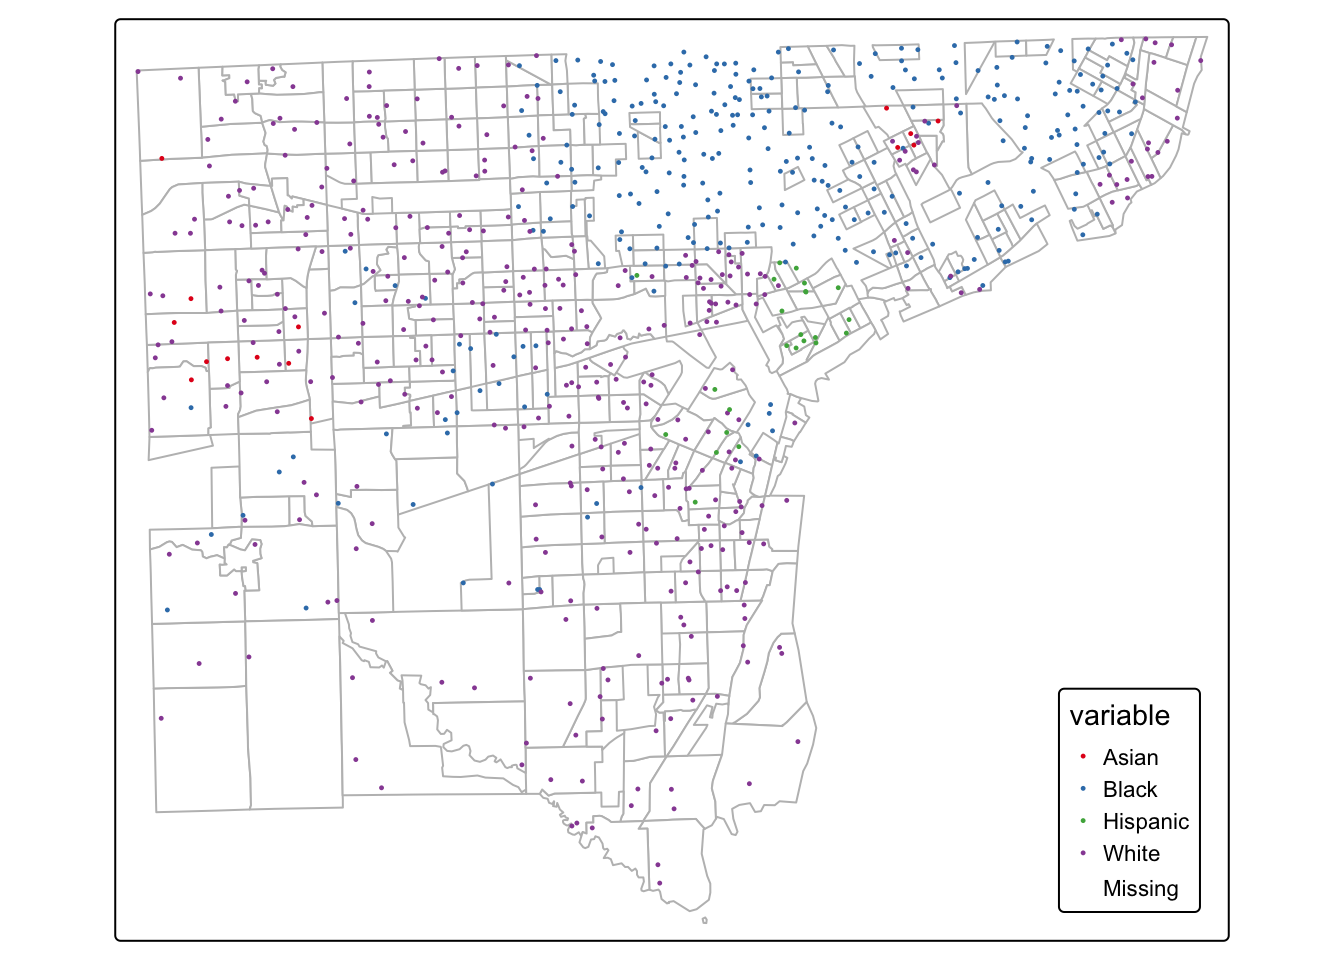
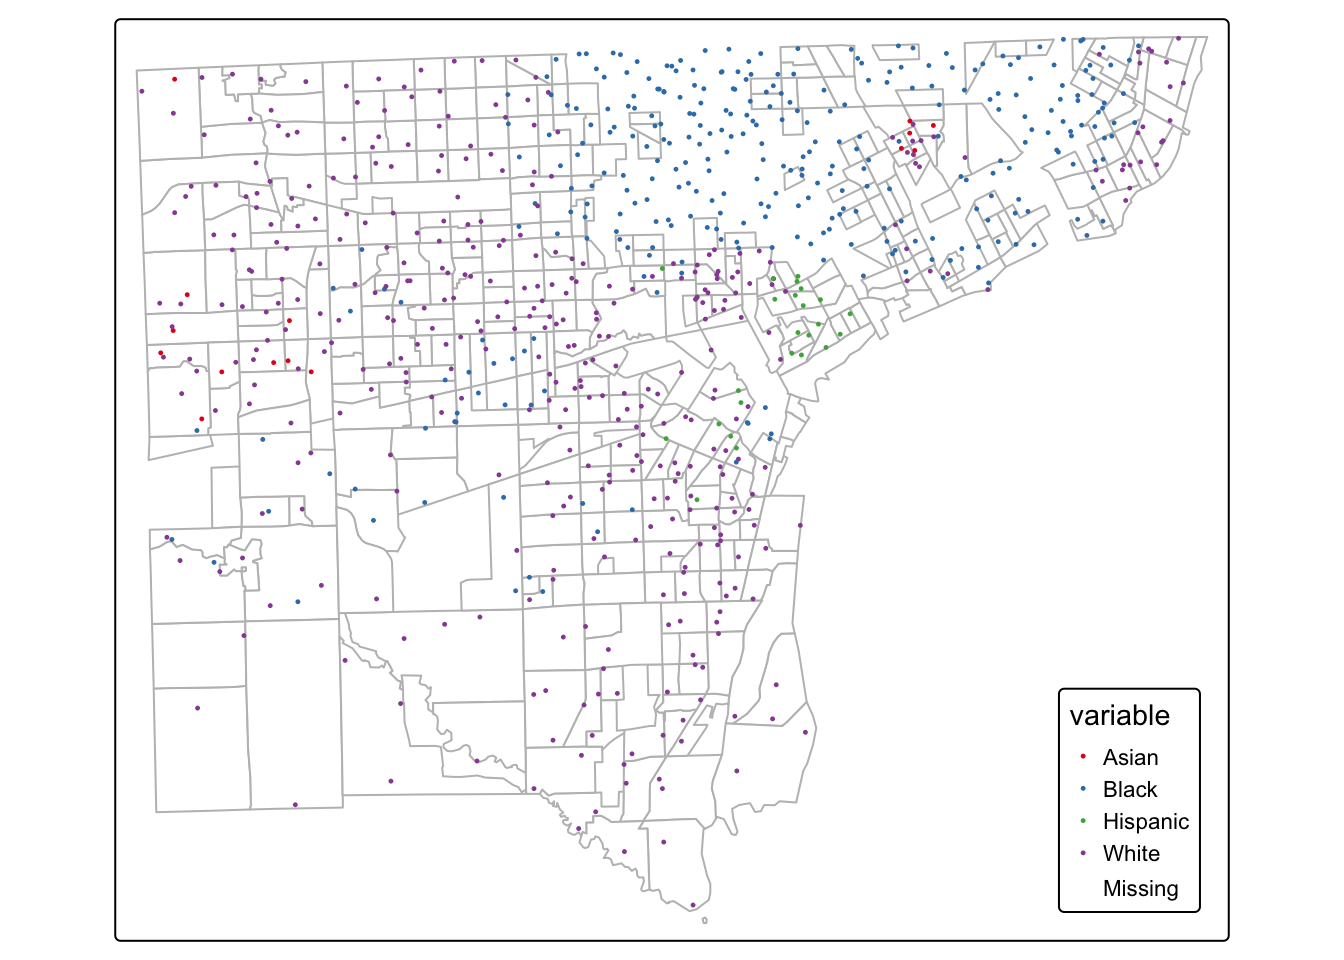
Trying to figure renders out

diff --git a/docs/portfolio.html b/docs/portfolio.html
@@ -231,7 +231,7 @@ ul.task-list li input[type="checkbox"] {
 <h3 class="anchored" data-anchor-id="dissimilarity-index">Dissimilarity Index:</h3>
 <div class="cell">
 <div class="cell-output-display">
-<div class="tabwid"><style>.cl-420c4d14{}.cl-4208ad62{font-family:'Helvetica';font-size:11pt;font-weight:normal;font-style:normal;text-decoration:none;color:rgba(0, 0, 0, 1.00);background-color:transparent;}.cl-420a30d8{margin:0;text-align:left;border-bottom: 0 solid rgba(0, 0, 0, 1.00);border-top: 0 solid rgba(0, 0, 0, 1.00);border-left: 0 solid rgba(0, 0, 0, 1.00);border-right: 0 solid rgba(0, 0, 0, 1.00);padding-bottom:5pt;padding-top:5pt;padding-left:5pt;padding-right:5pt;line-height: 1;background-color:transparent;}.cl-420a30e2{margin:0;text-align:right;border-bottom: 0 solid rgba(0, 0, 0, 1.00);border-top: 0 solid rgba(0, 0, 0, 1.00);border-left: 0 solid rgba(0, 0, 0, 1.00);border-right: 0 solid rgba(0, 0, 0, 1.00);padding-bottom:5pt;padding-top:5pt;padding-left:5pt;padding-right:5pt;line-height: 1;background-color:transparent;}.cl-420a40aa{width:0.75in;background-color:transparent;vertical-align: middle;border-bottom: 1.5pt solid rgba(102, 102, 102, 1.00);border-top: 1.5pt solid rgba(102, 102, 102, 1.00);border-left: 0 solid rgba(0, 0, 0, 1.00);border-right: 0 solid rgba(0, 0, 0, 1.00);margin-bottom:0;margin-top:0;margin-left:0;margin-right:0;}.cl-420a40ab{width:0.75in;background-color:transparent;vertical-align: middle;border-bottom: 1.5pt solid rgba(102, 102, 102, 1.00);border-top: 1.5pt solid rgba(102, 102, 102, 1.00);border-left: 0 solid rgba(0, 0, 0, 1.00);border-right: 0 solid rgba(0, 0, 0, 1.00);margin-bottom:0;margin-top:0;margin-left:0;margin-right:0;}.cl-420a40b4{width:0.75in;background-color:transparent;vertical-align: middle;border-bottom: 0 solid rgba(0, 0, 0, 1.00);border-top: 0 solid rgba(0, 0, 0, 1.00);border-left: 0 solid rgba(0, 0, 0, 1.00);border-right: 0 solid rgba(0, 0, 0, 1.00);margin-bottom:0;margin-top:0;margin-left:0;margin-right:0;}.cl-420a40b5{width:0.75in;background-color:transparent;vertical-align: middle;border-bottom: 0 solid rgba(0, 0, 0, 1.00);border-top: 0 solid rgba(0, 0, 0, 1.00);border-left: 0 solid rgba(0, 0, 0, 1.00);border-right: 0 solid rgba(0, 0, 0, 1.00);margin-bottom:0;margin-top:0;margin-left:0;margin-right:0;}.cl-420a40b6{width:0.75in;background-color:transparent;vertical-align: middle;border-bottom: 1.5pt solid rgba(102, 102, 102, 1.00);border-top: 0 solid rgba(0, 0, 0, 1.00);border-left: 0 solid rgba(0, 0, 0, 1.00);border-right: 0 solid rgba(0, 0, 0, 1.00);margin-bottom:0;margin-top:0;margin-left:0;margin-right:0;}.cl-420a40dc{width:0.75in;background-color:transparent;vertical-align: middle;border-bottom: 1.5pt solid rgba(102, 102, 102, 1.00);border-top: 0 solid rgba(0, 0, 0, 1.00);border-left: 0 solid rgba(0, 0, 0, 1.00);border-right: 0 solid rgba(0, 0, 0, 1.00);margin-bottom:0;margin-top:0;margin-left:0;margin-right:0;}</style><table data-quarto-disable-processing="true" class="cl-420c4d14"><thead><tr style="overflow-wrap:break-word;"><th class="cl-420a40aa"><p class="cl-420a30d8"><span class="cl-4208ad62">NAME</span></p></th><th class="cl-420a40ab"><p class="cl-420a30e2"><span class="cl-4208ad62">BWD</span></p></th><th class="cl-420a40ab"><p class="cl-420a30e2"><span class="cl-4208ad62">AWD</span></p></th><th class="cl-420a40ab"><p class="cl-420a30e2"><span class="cl-4208ad62">HWD</span></p></th></tr></thead><tbody><tr style="overflow-wrap:break-word;"><td class="cl-420a40b4"><p class="cl-420a30d8"><span class="cl-4208ad62">Ann Arbor</span></p></td><td class="cl-420a40b5"><p class="cl-420a30e2"><span class="cl-4208ad62">0.413</span></p></td><td class="cl-420a40b5"><p class="cl-420a30e2"><span class="cl-4208ad62">0.332</span></p></td><td class="cl-420a40b5"><p class="cl-420a30e2"><span class="cl-4208ad62">0.234</span></p></td></tr><tr style="overflow-wrap:break-word;"><td class="cl-420a40b4"><p class="cl-420a30d8"><span class="cl-4208ad62">Detroit</span></p></td><td class="cl-420a40b5"><p class="cl-420a30e2"><span class="cl-4208ad62">0.588</span></p></td><td class="cl-420a40b5"><p class="cl-420a30e2"><span class="cl-4208ad62">0.714</span></p></td><td class="cl-420a40b5"><p class="cl-420a30e2"><span class="cl-4208ad62">0.660</span></p></td></tr><tr style="overflow-wrap:break-word;"><td class="cl-420a40b4"><p class="cl-420a30d8"><span class="cl-4208ad62">Grand Rapids</span></p></td><td class="cl-420a40b5"><p class="cl-420a30e2"><span class="cl-4208ad62">0.479</span></p></td><td class="cl-420a40b5"><p class="cl-420a30e2"><span class="cl-4208ad62">0.393</span></p></td><td class="cl-420a40b5"><p class="cl-420a30e2"><span class="cl-4208ad62">0.532</span></p></td></tr><tr style="overflow-wrap:break-word;"><td class="cl-420a40b6"><p class="cl-420a30d8"><span class="cl-4208ad62">Lansing</span></p></td><td class="cl-420a40dc"><p class="cl-420a30e2"><span class="cl-4208ad62">0.375</span></p></td><td class="cl-420a40dc"><p class="cl-420a30e2"><span class="cl-4208ad62">0.496</span></p></td><td class="cl-420a40dc"><p class="cl-420a30e2"><span class="cl-4208ad62">0.304</span></p></td></tr></tbody></table></div>
+<div class="tabwid"><style>.cl-b6e586c6{}.cl-b6e1cf7c{font-family:'Helvetica';font-size:11pt;font-weight:normal;font-style:normal;text-decoration:none;color:rgba(0, 0, 0, 1.00);background-color:transparent;}.cl-b6e34604{margin:0;text-align:left;border-bottom: 0 solid rgba(0, 0, 0, 1.00);border-top: 0 solid rgba(0, 0, 0, 1.00);border-left: 0 solid rgba(0, 0, 0, 1.00);border-right: 0 solid rgba(0, 0, 0, 1.00);padding-bottom:5pt;padding-top:5pt;padding-left:5pt;padding-right:5pt;line-height: 1;background-color:transparent;}.cl-b6e3460e{margin:0;text-align:right;border-bottom: 0 solid rgba(0, 0, 0, 1.00);border-top: 0 solid rgba(0, 0, 0, 1.00);border-left: 0 solid rgba(0, 0, 0, 1.00);border-right: 0 solid rgba(0, 0, 0, 1.00);padding-bottom:5pt;padding-top:5pt;padding-left:5pt;padding-right:5pt;line-height: 1;background-color:transparent;}.cl-b6e3598c{width:0.75in;background-color:transparent;vertical-align: middle;border-bottom: 1.5pt solid rgba(102, 102, 102, 1.00);border-top: 1.5pt solid rgba(102, 102, 102, 1.00);border-left: 0 solid rgba(0, 0, 0, 1.00);border-right: 0 solid rgba(0, 0, 0, 1.00);margin-bottom:0;margin-top:0;margin-left:0;margin-right:0;}.cl-b6e3598d{width:0.75in;background-color:transparent;vertical-align: middle;border-bottom: 1.5pt solid rgba(102, 102, 102, 1.00);border-top: 1.5pt solid rgba(102, 102, 102, 1.00);border-left: 0 solid rgba(0, 0, 0, 1.00);border-right: 0 solid rgba(0, 0, 0, 1.00);margin-bottom:0;margin-top:0;margin-left:0;margin-right:0;}.cl-b6e3598e{width:0.75in;background-color:transparent;vertical-align: middle;border-bottom: 0 solid rgba(0, 0, 0, 1.00);border-top: 0 solid rgba(0, 0, 0, 1.00);border-left: 0 solid rgba(0, 0, 0, 1.00);border-right: 0 solid rgba(0, 0, 0, 1.00);margin-bottom:0;margin-top:0;margin-left:0;margin-right:0;}.cl-b6e35996{width:0.75in;background-color:transparent;vertical-align: middle;border-bottom: 0 solid rgba(0, 0, 0, 1.00);border-top: 0 solid rgba(0, 0, 0, 1.00);border-left: 0 solid rgba(0, 0, 0, 1.00);border-right: 0 solid rgba(0, 0, 0, 1.00);margin-bottom:0;margin-top:0;margin-left:0;margin-right:0;}.cl-b6e35997{width:0.75in;background-color:transparent;vertical-align: middle;border-bottom: 1.5pt solid rgba(102, 102, 102, 1.00);border-top: 0 solid rgba(0, 0, 0, 1.00);border-left: 0 solid rgba(0, 0, 0, 1.00);border-right: 0 solid rgba(0, 0, 0, 1.00);margin-bottom:0;margin-top:0;margin-left:0;margin-right:0;}.cl-b6e35998{width:0.75in;background-color:transparent;vertical-align: middle;border-bottom: 1.5pt solid rgba(102, 102, 102, 1.00);border-top: 0 solid rgba(0, 0, 0, 1.00);border-left: 0 solid rgba(0, 0, 0, 1.00);border-right: 0 solid rgba(0, 0, 0, 1.00);margin-bottom:0;margin-top:0;margin-left:0;margin-right:0;}</style><table data-quarto-disable-processing="true" class="cl-b6e586c6"><thead><tr style="overflow-wrap:break-word;"><th class="cl-b6e3598c"><p class="cl-b6e34604"><span class="cl-b6e1cf7c">NAME</span></p></th><th class="cl-b6e3598d"><p class="cl-b6e3460e"><span class="cl-b6e1cf7c">BWD</span></p></th><th class="cl-b6e3598d"><p class="cl-b6e3460e"><span class="cl-b6e1cf7c">AWD</span></p></th><th class="cl-b6e3598d"><p class="cl-b6e3460e"><span class="cl-b6e1cf7c">HWD</span></p></th></tr></thead><tbody><tr style="overflow-wrap:break-word;"><td class="cl-b6e3598e"><p class="cl-b6e34604"><span class="cl-b6e1cf7c">Ann Arbor</span></p></td><td class="cl-b6e35996"><p class="cl-b6e3460e"><span class="cl-b6e1cf7c">0.413</span></p></td><td class="cl-b6e35996"><p class="cl-b6e3460e"><span class="cl-b6e1cf7c">0.332</span></p></td><td class="cl-b6e35996"><p class="cl-b6e3460e"><span class="cl-b6e1cf7c">0.234</span></p></td></tr><tr style="overflow-wrap:break-word;"><td class="cl-b6e3598e"><p class="cl-b6e34604"><span class="cl-b6e1cf7c">Detroit</span></p></td><td class="cl-b6e35996"><p class="cl-b6e3460e"><span class="cl-b6e1cf7c">0.588</span></p></td><td class="cl-b6e35996"><p class="cl-b6e3460e"><span class="cl-b6e1cf7c">0.714</span></p></td><td class="cl-b6e35996"><p class="cl-b6e3460e"><span class="cl-b6e1cf7c">0.660</span></p></td></tr><tr style="overflow-wrap:break-word;"><td class="cl-b6e3598e"><p class="cl-b6e34604"><span class="cl-b6e1cf7c">Grand Rapids</span></p></td><td class="cl-b6e35996"><p class="cl-b6e3460e"><span class="cl-b6e1cf7c">0.479</span></p></td><td class="cl-b6e35996"><p class="cl-b6e3460e"><span class="cl-b6e1cf7c">0.393</span></p></td><td class="cl-b6e35996"><p class="cl-b6e3460e"><span class="cl-b6e1cf7c">0.532</span></p></td></tr><tr style="overflow-wrap:break-word;"><td class="cl-b6e35997"><p class="cl-b6e34604"><span class="cl-b6e1cf7c">Lansing</span></p></td><td class="cl-b6e35998"><p class="cl-b6e3460e"><span class="cl-b6e1cf7c">0.375</span></p></td><td class="cl-b6e35998"><p class="cl-b6e3460e"><span class="cl-b6e1cf7c">0.496</span></p></td><td class="cl-b6e35998"><p class="cl-b6e3460e"><span class="cl-b6e1cf7c">0.304</span></p></td></tr></tbody></table></div>
 </div>
 </div>
 <p>Dissimilarity Indices are widely used demographic metrics that measure the evennes with which two distinct groups are distributed across a geography. It ranges from 0 to 1, where a 0 = complete integration and 1 = complete segregation.</p>
@@ -240,7 +240,7 @@ ul.task-list li input[type="checkbox"] {
 <h3 class="anchored" data-anchor-id="interaction-index-p">Interaction Index (P*)</h3>
 <div class="cell">
 <div class="cell-output-display">
-<div class="tabwid"><style>.cl-42159b80{}.cl-4212728e{font-family:'Helvetica';font-size:11pt;font-weight:normal;font-style:normal;text-decoration:none;color:rgba(0, 0, 0, 1.00);background-color:transparent;}.cl-4213c71a{margin:0;text-align:right;border-bottom: 0 solid rgba(0, 0, 0, 1.00);border-top: 0 solid rgba(0, 0, 0, 1.00);border-left: 0 solid rgba(0, 0, 0, 1.00);border-right: 0 solid rgba(0, 0, 0, 1.00);padding-bottom:5pt;padding-top:5pt;padding-left:5pt;padding-right:5pt;line-height: 1;background-color:transparent;}.cl-4213d7aa{width:0.75in;background-color:transparent;vertical-align: middle;border-bottom: 1.5pt solid rgba(102, 102, 102, 1.00);border-top: 1.5pt solid rgba(102, 102, 102, 1.00);border-left: 0 solid rgba(0, 0, 0, 1.00);border-right: 0 solid rgba(0, 0, 0, 1.00);margin-bottom:0;margin-top:0;margin-left:0;margin-right:0;}.cl-4213d7ab{width:0.75in;background-color:transparent;vertical-align: middle;border-bottom: 1.5pt solid rgba(102, 102, 102, 1.00);border-top: 0 solid rgba(0, 0, 0, 1.00);border-left: 0 solid rgba(0, 0, 0, 1.00);border-right: 0 solid rgba(0, 0, 0, 1.00);margin-bottom:0;margin-top:0;margin-left:0;margin-right:0;}</style><table data-quarto-disable-processing="true" class="cl-42159b80"><thead><tr style="overflow-wrap:break-word;"><th class="cl-4213d7aa"><p class="cl-4213c71a"><span class="cl-4212728e">BWI</span></p></th><th class="cl-4213d7aa"><p class="cl-4213c71a"><span class="cl-4212728e">AWI</span></p></th><th class="cl-4213d7aa"><p class="cl-4213c71a"><span class="cl-4212728e">HWI</span></p></th></tr></thead><tbody><tr style="overflow-wrap:break-word;"><td class="cl-4213d7ab"><p class="cl-4213c71a"><span class="cl-4212728e">1.628</span></p></td><td class="cl-4213d7ab"><p class="cl-4213c71a"><span class="cl-4212728e">1.967</span></p></td><td class="cl-4213d7ab"><p class="cl-4213c71a"><span class="cl-4212728e">1.741</span></p></td></tr></tbody></table></div>
+<div class="tabwid"><style>.cl-b6ee134a{}.cl-b6eafeda{font-family:'Helvetica';font-size:11pt;font-weight:normal;font-style:normal;text-decoration:none;color:rgba(0, 0, 0, 1.00);background-color:transparent;}.cl-b6ec500a{margin:0;text-align:right;border-bottom: 0 solid rgba(0, 0, 0, 1.00);border-top: 0 solid rgba(0, 0, 0, 1.00);border-left: 0 solid rgba(0, 0, 0, 1.00);border-right: 0 solid rgba(0, 0, 0, 1.00);padding-bottom:5pt;padding-top:5pt;padding-left:5pt;padding-right:5pt;line-height: 1;background-color:transparent;}.cl-b6ec643c{width:0.75in;background-color:transparent;vertical-align: middle;border-bottom: 1.5pt solid rgba(102, 102, 102, 1.00);border-top: 1.5pt solid rgba(102, 102, 102, 1.00);border-left: 0 solid rgba(0, 0, 0, 1.00);border-right: 0 solid rgba(0, 0, 0, 1.00);margin-bottom:0;margin-top:0;margin-left:0;margin-right:0;}.cl-b6ec6446{width:0.75in;background-color:transparent;vertical-align: middle;border-bottom: 1.5pt solid rgba(102, 102, 102, 1.00);border-top: 0 solid rgba(0, 0, 0, 1.00);border-left: 0 solid rgba(0, 0, 0, 1.00);border-right: 0 solid rgba(0, 0, 0, 1.00);margin-bottom:0;margin-top:0;margin-left:0;margin-right:0;}</style><table data-quarto-disable-processing="true" class="cl-b6ee134a"><thead><tr style="overflow-wrap:break-word;"><th class="cl-b6ec643c"><p class="cl-b6ec500a"><span class="cl-b6eafeda">BWI</span></p></th><th class="cl-b6ec643c"><p class="cl-b6ec500a"><span class="cl-b6eafeda">AWI</span></p></th><th class="cl-b6ec643c"><p class="cl-b6ec500a"><span class="cl-b6eafeda">HWI</span></p></th></tr></thead><tbody><tr style="overflow-wrap:break-word;"><td class="cl-b6ec6446"><p class="cl-b6ec500a"><span class="cl-b6eafeda">1.628</span></p></td><td class="cl-b6ec6446"><p class="cl-b6ec500a"><span class="cl-b6eafeda">1.967</span></p></td><td class="cl-b6ec6446"><p class="cl-b6ec500a"><span class="cl-b6eafeda">1.741</span></p></td></tr></tbody></table></div>
 </div>
 </div>
 <p>The interaction index is a metric used to measure the probability of contact or exposure between two distinct groups (such as demographic populations) across residential or social zones.</p>